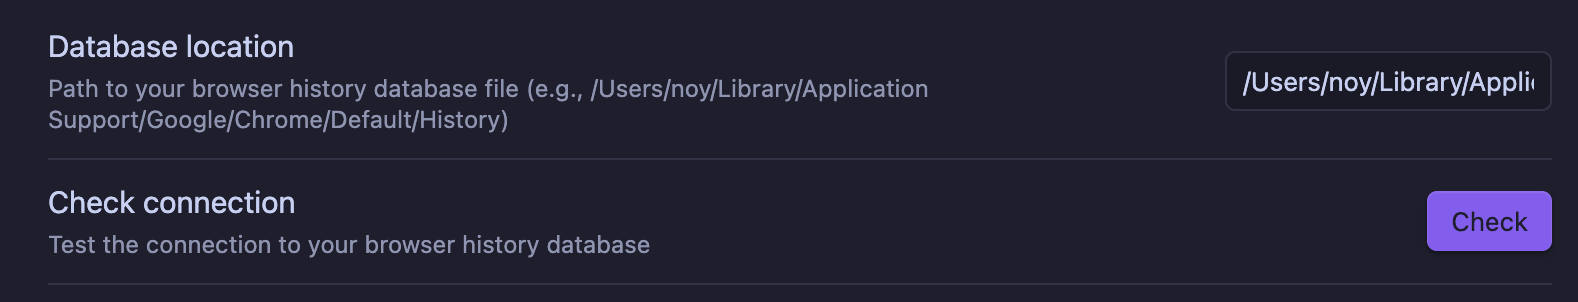
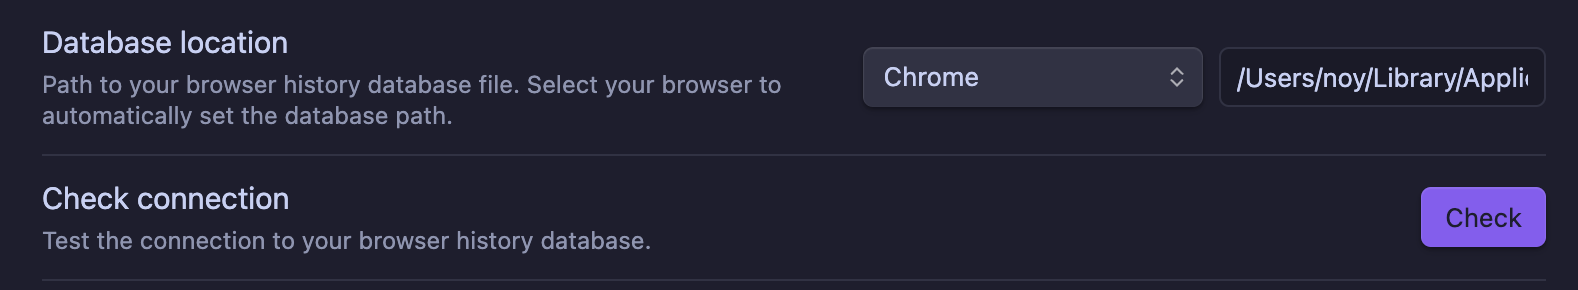
readme

diff --git a/README.md b/README.md
@@ -8,9 +8,9 @@ Sync your browser history to notes.
 
 1. Install and enable the plugin.
 2. Go to the plugin settings.
-3. Configure the database location, and click "Check Connection" button to verify database access.
+3. Configure the database location, and click `Check` button to verify database access.
     <img src="assets/browser_history_setting.png" alt="Settings" width="600"/>
-4. Click "Open today's browser history" in the ribbon.  
+4. Click "Open today's browser history" in the ribbon.
     <img src="assets/browser_history_ribbon.png" alt="Ribbon" width="300"/>
 5. Optionally enable auto sync features
 
